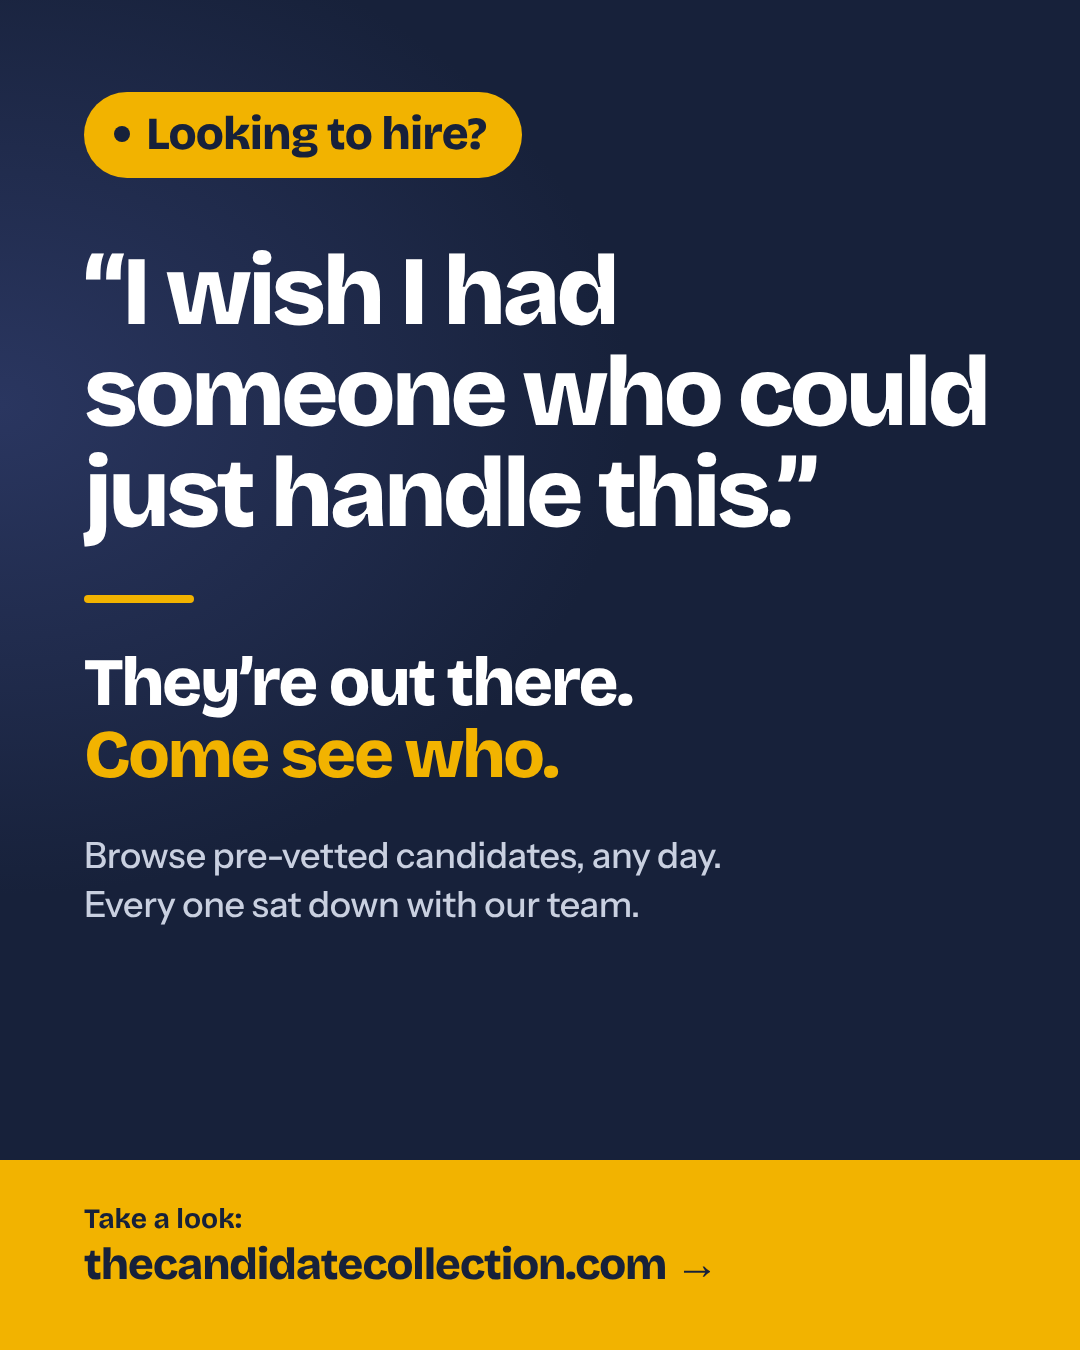
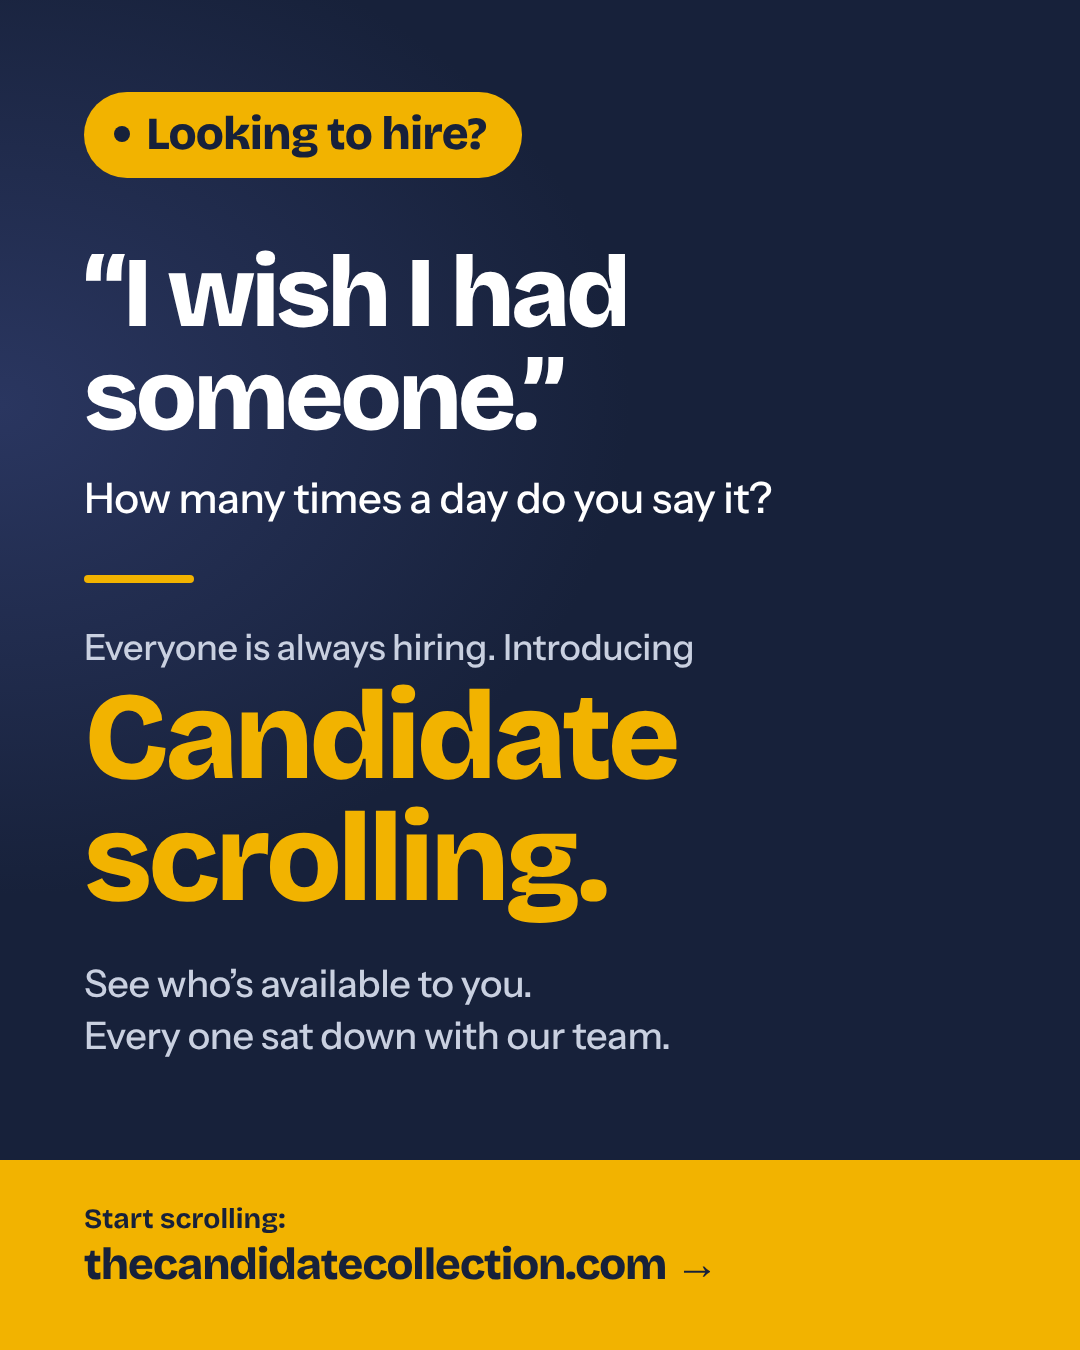
Candidate scrolling: short and punchy, the coined term front and centre
Claude-Session: https://claude.ai/code/session_01EZeEyNzeQFPN4DFsUvzuMe

diff --git a/src/app/always-hiring/page.tsx b/src/app/always-hiring/page.tsx
@@ -10,8 +10,8 @@ import styles from "./looking.module.css";
 export const dynamic = "force-dynamic";
 
 export const metadata: Metadata = {
-  title: "Everyone is always hiring",
-  description: "Every day you think, I wish I had someone who could handle this. Everyone is always hiring. Come see who's out there.",
+  title: "Candidate scrolling",
+  description: "Everyone is always hiring. Scroll through the people who are available to you, any day.",
 };
 
 // The "everyone is always hiring" idea, told from the owner's day, then real people to scroll.
@@ -26,51 +26,35 @@ export default async function AlwaysHiringPage() {
       <section className={`wrap ${styles.story}`}>
         <p className={styles.label}>Everyone&rsquo;s always hiring</p>
         <h1>
-          &ldquo;I wish I had someone who could just handle this.&rdquo; <span>How many times did you say it this week?</span>
+          &ldquo;I wish I had someone.&rdquo; <span>How many times a day do you say it?</span>
         </h1>
 
-        <p>Your best customer called three times this week. Nobody called him back.</p>
-        <p>The crew stood around for an hour this morning, because nobody told them where to go.</p>
-        <p>Two of your people aren&rsquo;t speaking to each other, and you&rsquo;re the one carrying the messages.</p>
-        <p>You stepped out of a wedding to deal with a delivery.</p>
-        <p>And if you were out for a week, the whole thing would stop.</p>
-        <p>
-          None of that is a job for software. It&rsquo;s a job for a person. And every time, you think the same thing:{" "}
-          <em>I wish I had someone.</em> Then the phone rings, and the thought is gone.
-        </p>
-        <p>That thought is a hiring thought. You have one almost every day.</p>
+        <ul className={styles.moments}>
+          <li>Your best customer called three times this week. Nobody called him back.</li>
+          <li>The invoices sat another week.</li>
+          <li>The crew stood around for an hour, because nobody told them where to go.</li>
+        </ul>
+        <p>It happens every day. Everyone is always hiring.</p>
 
-        <h2>Everyone is always hiring.</h2>
+        <p className={styles.intro}>So we&rsquo;d like to introduce</p>
+        <h2>Candidate scrolling.</h2>
 
-        <p>Some owners are just more active about it than others. Most of us wait until it hurts, and then we rush.</p>
-        <p>So look now. Open the collection for a few minutes, here and there, the way you&rsquo;d check anything else on your phone.</p>
+        <p>Scroll through the people who are available to you. Any day, for a few minutes.</p>
+        <p>See who&rsquo;s out there. Stop on the one who catches you. Tap the heart.</p>
+        <p className={styles.beat}>It&rsquo;s a freeing feeling, seeing who&rsquo;s available to you.</p>
         <p>
-          Read what each person is great at. The one who can calm an upset customer. The one a whole crew listens to.
-          The one who notices what you missed, and deals with it before you ever hear about it.
-        </p>
-        <p>There&rsquo;s a quiet relief in it. The people who could help you are out there, and now you can see them.</p>
-        <p className={styles.beat}>And then one day it clicks.</p>
-        <p>
-          Something goes sideways at two in the afternoon, and you think of a person you scrolled past last week.{" "}
-          <em>That&rsquo;s who I needed today.</em>
-        </p>
-        <p className={styles.beat}>
-          Now you know who you&rsquo;re looking for. <span>Or you&rsquo;ve found the one you didn&rsquo;t know you needed.</span>
+          And one day it clicks. <em>That&rsquo;s who I needed today.</em>
         </p>
 
         <Link href="/candidates" className="btn btn-gold btn-big">
-          See who&rsquo;s out there
+          Start scrolling
         </Link>
-        <p className={styles.aside}>
-          It&rsquo;s the same reason people look at houses they aren&rsquo;t buying. You don&rsquo;t always know
-          what&rsquo;s missing until you see it.
-        </p>
       </section>
 
       {newest.length > 0 && (
         <section className={styles.feed}>
           <div className="wrap">
-            <h2>Start here. The newest in the collection.</h2>
+            <h2>Start scrolling. Here are the newest.</h2>
             <div className="cards">
               {newest.map((c) => (
                 <CandidateCard key={c.id} c={c} fee={feeFor(c, tiers)} href={`/candidates/${c.id}`} store interviewing={busy.has(c.id)} />
@@ -78,7 +62,7 @@ export default async function AlwaysHiringPage() {
             </div>
             <div className={styles.more}>
               <Link href="/candidates" className="btn btn-big">
-                See them all
+                Keep scrolling
               </Link>
               <p>One flat fee, only if you hire. Never a percentage of salary.</p>
             </div>

diff --git a/src/app/always-hiring/looking.module.css b/src/app/always-hiring/looking.module.css
@@ -1,13 +1,13 @@
 .page { background: var(--ink); }
 .story { max-width: 760px; color: #fff; padding-top: clamp(48px, 8vw, 96px); padding-bottom: clamp(56px, 8vw, 100px); }
 .label { display: inline-block; margin: 0 0 24px; padding: 7px 18px 8px; border-radius: 999px; background: var(--marigold); color: var(--ink); font-family: var(--display); font-weight: 800; font-size: clamp(17px, 2vw, 21px); }
-.story h1 { font-size: clamp(34px, 5.6vw, 62px); line-height: 1.02; letter-spacing: -0.035em; margin: 0 0 clamp(36px, 5vw, 56px); }
-.story h1 span { display: block; color: var(--marigold); font-size: 0.62em; line-height: 1.15; margin-top: 0.5em; letter-spacing: -0.02em; }
+.story h1 { font-size: clamp(42px, 7.4vw, 84px); line-height: 1.02; letter-spacing: -0.035em; margin: 0 0 clamp(36px, 5vw, 56px); }
+.story h1 span { display: block; color: var(--marigold); font-size: 0.5em; line-height: 1.15; margin-top: 0.5em; letter-spacing: -0.02em; }
 .story p { margin: 0 0 1.25em; font-size: clamp(20px, 2.5vw, 26px); line-height: 1.5; color: rgba(255, 255, 255, 0.82); max-width: 30em; }
 .story em { font-style: italic; color: #fff; }
 .story p.beat { font-family: var(--display); font-weight: 800; font-size: clamp(27px, 3.8vw, 40px); line-height: 1.15; letter-spacing: -0.02em; color: #fff; margin: 1.3em 0 1em; }
 .beat span { display: block; color: var(--marigold); }
-.story h2 { font-size: clamp(34px, 5.4vw, 58px); line-height: 1.05; letter-spacing: -0.03em; color: var(--marigold); margin: clamp(52px, 8vw, 92px) 0 clamp(26px, 4vw, 40px); }
+.story h2 { font-size: clamp(46px, 9vw, 104px); line-height: 1.05; letter-spacing: -0.03em; color: var(--marigold); margin: 0 0 clamp(26px, 4vw, 40px); }
 .story :global(.btn) { margin-top: 14px; }
 
 .feed { background: var(--paper); padding: clamp(44px, 6vw, 76px) 0 clamp(48px, 7vw, 84px); }
@@ -15,3 +15,6 @@
 .more { text-align: center; margin-top: 32px; }
 .more p { margin: 16px 0 0; font-size: 15px; color: var(--ink-3); }
 .story p.aside { margin: 44px 0 0; padding-top: 22px; border-top: 1px solid rgba(255, 255, 255, 0.16); font-size: 16.5px; line-height: 1.55; color: rgba(255, 255, 255, 0.6); }
+.moments { list-style: none; margin: 0 0 1.4em; padding: 0; display: grid; gap: 14px; }
+.moments li { border-left: 5px solid var(--marigold); padding: 2px 0 2px 18px; font-size: clamp(20px, 2.5vw, 26px); line-height: 1.4; color: #fff; }
+.story p.intro { margin: clamp(52px, 8vw, 92px) 0 6px; font-size: clamp(17px, 2vw, 21px); color: rgba(255, 255, 255, 0.7); }

diff --git a/src/lib/shareKit.ts b/src/lib/shareKit.ts
@@ -59,11 +59,11 @@ export function ownerKits(ref?: string | null): Kit[] {
     { id: "concept-talk-browse", name: "Talk or browse", tag: "New", about: "Tell us the position, or browse the candidates yourself.", image: "/share/owner-concept-talk-browse.png", message: concept(ref, "We've already met the candidates. Tell us the position you're hiring for, or browse them yourself."), link },
     {
       id: "browse-anyway",
-      name: "I wish I had someone",
+      name: "Candidate scrolling",
       tag: "New",
-      about: "Speaks to the daily 'I wish I had someone' moment. Opens the Always hiring page.",
+      about: "Introduces candidate scrolling. Opens the page that explains it.",
       image: "/share/owner-browse-anyway.png",
-      message: `\"I wish I had someone who could just handle this.\"\n\nThey're out there. Come see who.\n\nPre-vetted candidates. Every one sat down with our team.\n\nTake a look: ${siteUrl()}/always-hiring${ref ? `?r=${refSlug(ref)}` : ""}`,
+      message: `\"I wish I had someone.\" How many times a day do you say it?\n\nEveryone is always hiring. Try candidate scrolling: see who's available to you.\n\nPre-vetted candidates. Every one sat down with our team.\n\nStart scrolling: ${siteUrl()}/always-hiring${ref ? `?r=${refSlug(ref)}` : ""}`,
       link: `${siteUrl()}/always-hiring${ref ? `?r=${refSlug(ref)}` : ""}`,
     },
     { id: "half-hour", name: "Half an hour", tag: "Shloimy recommends", about: "The promise: a candidate to consider in half an hour.", image: "/share/owner-teaser.png", message: ownerTeaser(ref), link },

diff --git a/design/posters/browse-anyway.html b/design/posters/browse-anyway.html
@@ -19,9 +19,11 @@ h2 span{color:#f2b300;display:block}.bar{width:110px;height:8px;border-radius:4p
 .card .t{margin-top:26px;font-family:B;font-weight:800;font-size:25px;color:#3f7d4e;letter-spacing:.02em}
 </style><body class="p"><div class="in">
 <span class="pill"><i></i>Looking to hire?</span>
-<h1 style="font-size:98px;margin-top:64px;line-height:1.03">&ldquo;I wish I had someone who could just handle this.&rdquo;</h1>
-<div class="bar" style="margin:50px 0 44px"></div>
-<h2 style="font-size:68px;color:#fff">They&rsquo;re out there. <span>Come see who.</span></h2>
-<p class="s" style="font-size:36px;margin-top:40px">Browse pre-vetted candidates, any day.<br>Every one sat down with our team.</p>
+<h1 style="font-size:100px;margin-top:64px;line-height:1.03">&ldquo;I wish I had someone.&rdquo;</h1>
+<p class="s" style="font-size:42px;margin-top:22px;color:#fff">How many times a day do you say it?</p>
+<div class="bar" style="margin:48px 0 40px"></div>
+<p class="s" style="font-size:36px">Everyone is always hiring. Introducing</p>
+<h2 style="font-size:124px;color:#f2b300;margin-top:6px;line-height:.98">Candidate<br>scrolling.</h2>
+<p class="s" style="font-size:38px;margin-top:38px">See who&rsquo;s available to you.<br>Every one sat down with our team.</p>
 </div>
-<div class="band"><div class="a">Take a look:</div><div class="b">thecandidatecollection.com →</div></div>
+<div class="band"><div class="a">Start scrolling:</div><div class="b">thecandidatecollection.com →</div></div>

diff --git a/src/app/layout.tsx b/src/app/layout.tsx
@@ -89,7 +89,7 @@ export default async function RootLayout({ children }: LayoutProps<"/">) {
               <Link href={P("/meet")}>Meet the team</Link>
               <Link href={P("/how-it-works")}>How it works</Link>
               <Link href={P("/candidates")}>Browse candidates</Link>
-              <Link href={P("/always-hiring")}>Always hiring</Link>
+              <Link href={P("/always-hiring")}>Candidate scrolling</Link>
               <Link href={P("/hiring-help")}>Hiring help</Link>
               <Link href={P("/billing")}>Billing philosophy</Link>
               <Link href={P(signedIn ? "/account" : "/login")}>{signedIn ? "Your account" : "Business sign in"}</Link>
